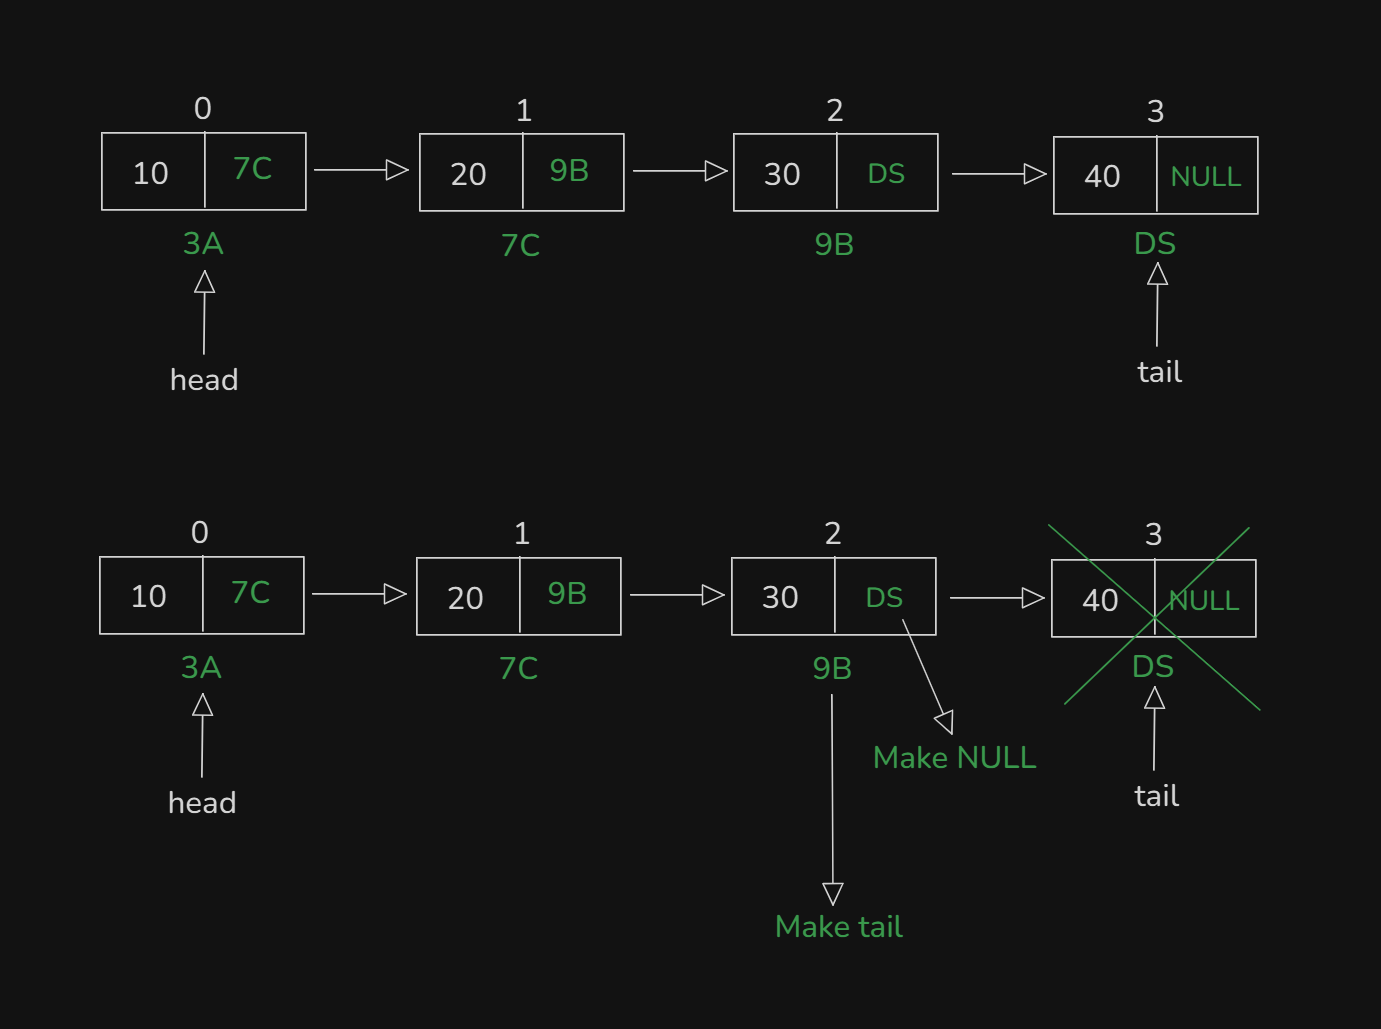
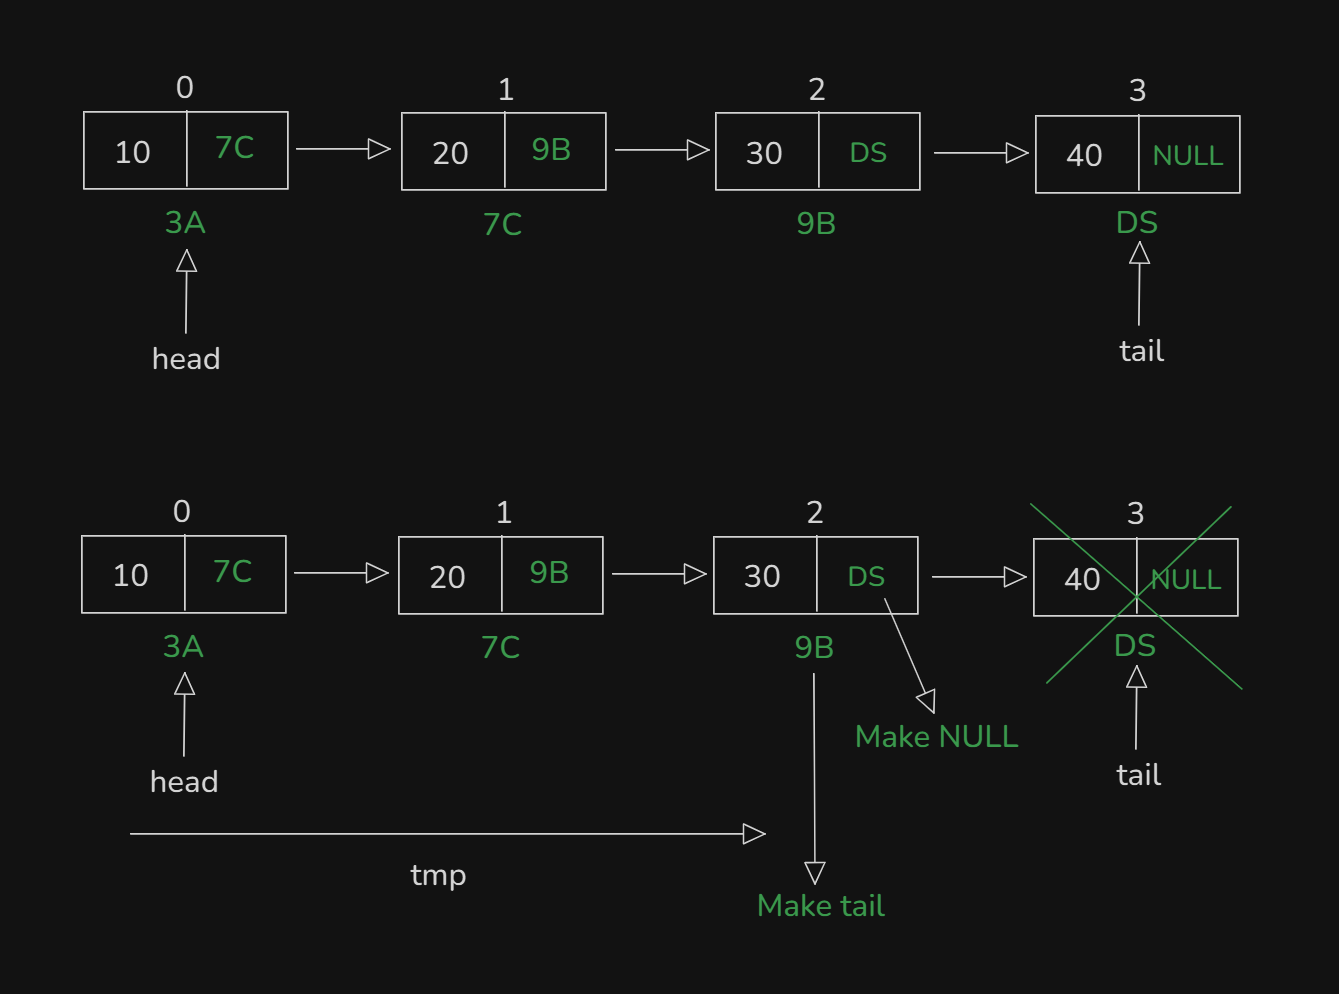
To add notes for module 07

diff --git a/03. Basic Data Structures/Week 02-Linked List/Module 07-More Operation On Singly Linked List/delete_tail.cpp b/03. Basic Data Structures/Week 02-Linked List/Module 07-More Operation On Singly Linked List/delete_tail.cpp
@@ -36,7 +36,7 @@ void print_linked_list(Node* head) {
 }
 
 // Functions for delete at head node
-void delete_at_any_position(Node* head, int index) {
+void delete_at_tail(Node* head, Node* &tail, int index) {
     Node* tmp = head;
     for(int i = 1; i < index; i++) {
         tmp = tmp->next;
@@ -44,6 +44,7 @@ void delete_at_any_position(Node* head, int index) {
     Node* deleteNode = tmp->next;
     tmp->next = tmp->next->next;
     delete deleteNode;
+    tail = tmp;
 }
 
 int main() {
@@ -59,7 +60,7 @@ int main() {
         insert_at_tail(head, tail, value);
     }
 
-    delete_at_any_position(head, 2);
+    delete_at_tail(head, tail, 4);
     print_linked_list(head);
 
     return 0;

diff --git a/03. Basic Data Structures/Week 02-Linked List/Module 07-More Operation On Singly Linked List/README.md b/03. Basic Data Structures/Week 02-Linked List/Module 07-More Operation On Singly Linked List/README.md
@@ -75,6 +75,7 @@
 ## 6. Delete at tail
 - Build logic with drawing:
     - <img src="./images/drawing8.png" width="500">
+- Also same logic from `delete at any position`
 - Program: `delete_tail.cpp`
 
 ## 7 Delete at Any position Animated
